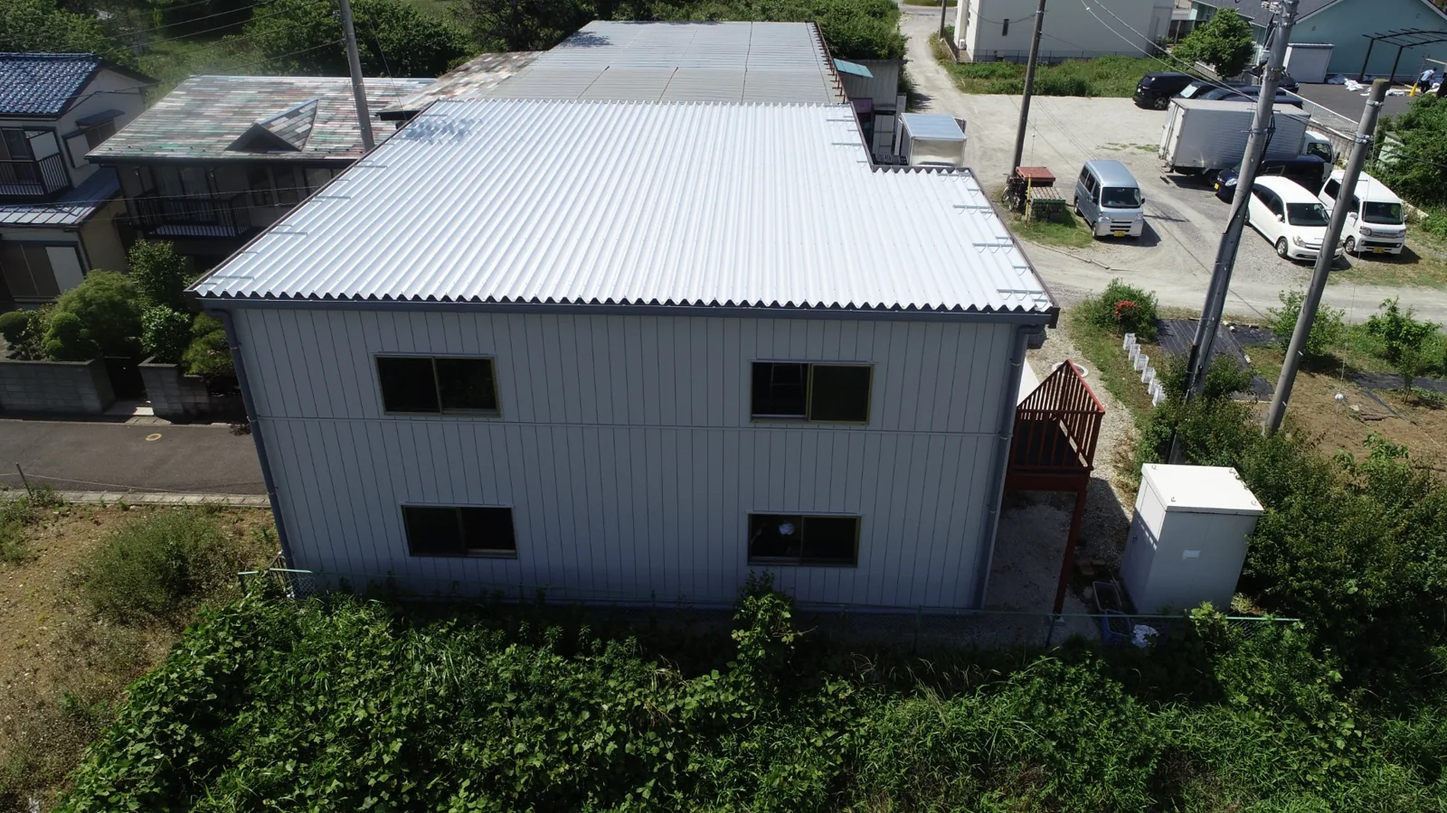
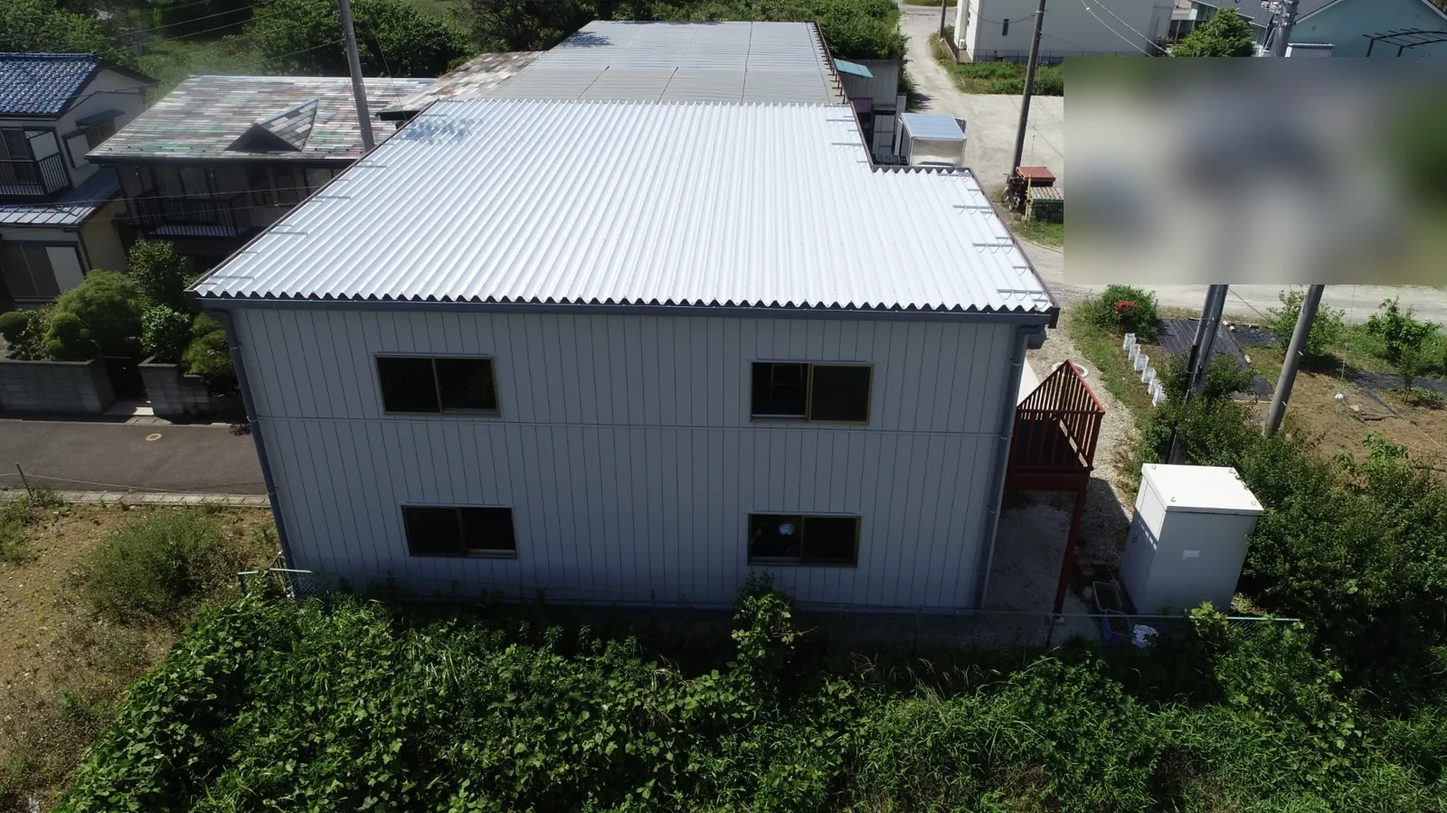
Finalize nine drone cases, redact photo identifiers and enable public SEO

Changed region(s): [[0.7188, 0.0622, 1.0, 0.3733]]

diff --git a/drone-survey/index.html b/drone-survey/index.html
@@ -1,8 +1,8 @@
 <!doctype html>
 <html lang="ja"><head><meta charset="utf-8"><meta name="viewport" content="width=device-width,initial-scale=1">
-<title>ドローンによる現場調査・施工計画｜株式会社太刀川組</title>
-<meta name="description" content="株式会社太刀川組のドローン活用。工場屋根・鉄骨・搬入経路などの現況確認を施工計画や工法提案に活かします。東京都江戸川区を拠点にご相談を承ります。">
-<meta name="robots" content="noindex,nofollow"><meta name="theme-color" content="#0b1626">
+<title>江戸川区のドローン現場調査・空撮記録｜株式会社太刀川組</title>
+<meta name="description" content="江戸川区の太刀川組によるドローン現場調査・空撮記録。屋根の現況確認、建屋増築の工事記録、台風被害調査など9事例を実写真で紹介。工場改修や高所調査のご相談を承ります。">
+<meta name="robots" content="index,follow"><link rel="canonical" href="https://tachikawagumi.co.jp/drone-survey/"><meta name="theme-color" content="#0b1626">
 <link rel="icon" href="../assets/optimized/logo-48.png" type="image/png">
 <link rel="stylesheet" href="../assets/contact-ui.css"><script defer src="../assets/contact-ui.js"></script>
 <script async src="https://www.googletagmanager.com/gtag/js?id=G-0YE8VVH5FC"></script><script>window.dataLayer=window.dataLayer||[];function gtag(){dataLayer.push(arguments)}gtag('js',new Date());gtag('config','G-0YE8VVH5FC')</script>
@@ -17,14 +17,15 @@
 .roof-comparison{display:grid;grid-template-columns:repeat(2,minmax(0,1fr));gap:22px}.roof-photo{min-width:0;margin:0;background:#fff;border:1px solid #dfe5eb}.roof-photo a{display:block}.roof-photo img{display:block;width:100%;height:auto;aspect-ratio:16/9;object-fit:contain;background:#12263d}.roof-photo figcaption{padding:17px 20px;font-size:14px;color:#526273;line-height:1.8}.roof-phase{display:block;color:#795b24;font-size:16px;font-weight:800;margin-bottom:5px}.roof-group-title{font-size:clamp(20px,2.4vw,27px);line-height:1.5;margin:36px 0 18px}.roof-case-facts{display:grid;grid-template-columns:repeat(2,minmax(0,1fr));gap:18px;margin:28px 0}.roof-case-facts p{margin:0;padding:17px 20px;background:#fff;border-top:2px solid #c79a3b;font-size:14px}.roof-case-facts strong{display:block;color:#795b24;font-size:12px;margin-bottom:7px}.roof-craft{border-left:3px solid #c79a3b;background:#fff;padding:22px 25px;margin:32px 0 22px}.roof-craft h3{margin:0 0 10px;font-size:21px;line-height:1.5}.roof-craft p{margin:0;color:#526273}.roof-scope{font-size:13px;color:#5c6a7a;max-width:850px}.roof-photo a:focus-visible{outline-offset:3px}@media(max-width:700px){.roof-comparison,.roof-case-facts{grid-template-columns:1fr}.roof-craft{padding:20px}.roof-photo figcaption{padding:15px 18px}}
 
 .extension-photo-grid{display:grid;grid-template-columns:repeat(3,minmax(0,1fr));gap:18px;margin-top:24px}.extension-photo-grid .roof-photo img{aspect-ratio:4/3;object-fit:cover}@media(max-width:760px){.extension-photo-grid{grid-template-columns:1fr 1fr}}@media(max-width:520px){.extension-photo-grid{grid-template-columns:1fr}}
+.case-nav{padding:32px 0}.case-nav .links{margin-top:14px;gap:12px 24px}section[id]{scroll-margin-top:20px}@media(max-width:420px){.brand{font-size:13px;gap:7px}.header .wrap{gap:8px}.header nav{gap:8px}.wrap{width:calc(100% - 32px)}}
 </style></head>
 <body class="has-contact-actions"><header class="header"><div class="wrap"><a class="brand" href="../"><img src="../assets/optimized/logo-96.png" alt="" width="42" height="42">株式会社太刀川組</a><nav aria-label="サイト案内"><a href="../factory-renovation/">工場改修</a><a href="../works/">施工実績</a><a href="../#contact">お問い合わせ</a></nav></div></header>
 <main><section class="hero" aria-labelledby="page-title"><h1 id="page-title" class="hero-sr-title">空から見る現場は、もっと面白い。太刀川組のドローン活用。</h1><figure class="hero-artwork"><img src="photos/drone-hero-original.webp" width="1672" height="941" alt="青空と夕空を背景にPhantom 4、Air 3S、Mini 2を描いたAI生成イメージ" fetchpriority="high" decoding="async"></figure><div class="wrap"><p>現場を見て、考え、施工につなげる。太刀川組のドローン活用。</p><p class="hero-note">※トップ画像はAI生成イメージです。実際に3機を同時飛行させて撮影した写真ではありません。</p><a class="hero-image-link" href="photos/drone-hero-original.webp">画像内の文字を拡大して見る →</a></div></section>
 <section class="section"><div class="wrap"><div class="eyebrow">OUR APPROACH</div><h2>撮るだけで終わらない、現場の確認。</h2><p class="lead">図面や地上からの視界だけでは分かりにくい屋根・高所・構造物の位置関係。ドローンで現況を確かめ、アクセス方法や資材搬入、作業手順を検討するための材料にします。撮影だけを目的とするサービスではなく、建設工事の現場判断に活かす取り組みです。</p></div></section>
-<section class="section alt" id="aircraft"><div class="wrap"><div class="eyebrow">OUR AIRCRAFT</div><h2>個性の異なる、3機のドローン。</h2><div class="cards"><article class="card"><span class="num">01 / WIDE VIEW</span><h3>DJI Air 3S</h3><p>現在の主力機。工場の屋根や構造物など、現場全体を見渡す確認に活用。</p></article><article class="card"><span class="num">02 / SHARED VIEW</span><h3>DJI Phantom 4</h3><p>映像をその場で共有する体験を重視した機体。旧DJI Gogglesとの組み合わせを含め、復活計画を進めています。</p></article><article class="card"><span class="num">03 / COMPACT VIEW</span><h3>DJI Mini 2</h3><p>小型ならではの取り回しを活かし、狭い場所の確認を想定。復活計画中の機体です。</p></article></div><p class="note">Phantom 4・Mini 2は飛行許可を取得済みですが、機体の整備完了・飛行可能状態を示すものではありません。飛行可否は現場条件・許可条件・安全確保を確認して判断します。</p></div></section>
+<section class="section alt" id="aircraft"><div class="wrap"><div class="eyebrow">OUR AIRCRAFT</div><h2>個性の異なる、3機のドローン。</h2><div class="cards"><article class="card"><span class="num">01 / WIDE VIEW</span><h3>DJI Air 3S</h3><p>現在の主力機。工場の屋根や構造物など、現場全体を見渡す確認に活用。</p></article><article class="card"><span class="num">02 / SHARED VIEW</span><h3>DJI Phantom 4</h3><p>映像をその場で共有する体験を重視した機体。旧DJI Gogglesとの組み合わせを含め、復活計画を進めています。</p></article><article class="card"><span class="num">03 / COMPACT VIEW</span><h3>DJI Mini 2</h3><p>小型ならではの取り回しを活かし、狭い場所の確認を想定。復活計画中の機体です。</p></article></div><p class="note">使用する機体と飛行可否は、機体の整備状態・現場条件・必要な許可や安全確保を確認して、案件ごとに判断します。</p></div></section>
 <section class="section" id="use"><div class="wrap"><div class="eyebrow">FIELD APPLICATION</div><h2>施工を考えるために、空から確かめる。</h2><div class="cards"><article class="card"><span class="num">01</span><h3>屋根・外壁の現況</h3><p>高所の状態や周辺設備との位置関係を把握し、追加調査や施工計画の検討に役立てます。</p></article><article class="card"><span class="num">02</span><h3>アクセス・搬入経路</h3><p>作業場所までの経路、資材の移動、仮設設備の配置を検討する手掛かりにします。</p></article><article class="card"><span class="num">03</span><h3>工法の比較・提案</h3><p>足場や高所作業車など、現場に適した手段を費用・作業負担・安全条件から考えます。</p></article></div></div></section>
 <section class="section dark"><div class="wrap"><div class="eyebrow">HOW WE WORK</div><h2>現場を見て、施工方法を考える。</h2><div class="steps"><div class="step"><b>01 / SURVEY</b><h3>現況を確認</h3><p>資料と現場を照合し、必要に応じて上空からも確認。</p></div><div class="step"><b>02 / PLAN</b><h3>工法を比較</h3><p>足場・高所作業車・搬入方法などを検討。</p></div><div class="step"><b>03 / PROPOSE</b><h3>根拠を示す</h3><p>作業方法や費用に関わる条件を説明。</p></div><div class="step"><b>04 / BUILD</b><h3>施工へつなぐ</h3><p>担当範囲と必要な体制を確認して進めます。</p></div></div></div></section>
-<section class="section alt" id="gallery" aria-labelledby="roof-case-title"><div class="wrap"><div class="eyebrow">DRONE × ROOF RENOVATION</div><h2 id="roof-case-title">江戸川区の工場屋根を、<br>施工前から施工後まで記録。</h2><p class="lead">東京都江戸川区内の工場で行った、屋根トタン板取り換え工事です。太刀川組の社員が屋根下に足場を組み、既存屋根材をガルバリウム鋼板の波板へ順次張り替えました。その過程を実際のドローン空撮写真4枚で紹介します。</p>
+<div class="wrap"><nav class="case-nav" aria-label="ドローン活用9事例"><strong>建設現場での活用9事例</strong><div class="links"><a href="#gallery">工場屋根交換 →</a><a href="#antenna-inspection">雨樋見積・アンテナ →</a><a href="#extension-progress">建屋増築記録 →</a><a href="#grading-comparison">造成現場比較 →</a><a href="#indoor-mezzanine">工場内中2階 →</a><a href="#roof-condition-inspection">屋根現況調査 →</a><a href="#school-route-wall">通学路沿い建物 →</a><a href="#storm-ridge">台風被害調査 →</a><a href="#tile-roof-record">瓦屋根補修記録 →</a></div></nav></div><section class="section alt" id="gallery" aria-labelledby="roof-case-title"><div class="wrap"><div class="eyebrow">DRONE × ROOF RENOVATION</div><h2 id="roof-case-title">江戸川区の工場屋根を、<br>施工前から施工後まで記録。</h2><p class="lead">東京都江戸川区内の工場で行った、屋根トタン板取り換え工事です。太刀川組の社員が屋根下に足場を組み、既存屋根材をガルバリウム鋼板の波板へ順次張り替えました。その過程を実際のドローン空撮写真4枚で紹介します。</p>
 <div class="roof-case-facts"><p><strong>施工場所</strong>東京都江戸川区内の工場</p><p><strong>当社の施工</strong>屋根下の足場・屋根材の順次交換</p></div>
 <h3 class="roof-group-title">ほぼ同じ構図で見る、施工前・施工後</h3><div class="roof-comparison"><figure class="roof-photo"><a href="photos/roof-0017.webp" aria-label="工場屋根の施工前の空撮写真を大きく見る"><img src="photos/roof-0017.webp" width="1600" height="900" alt="東京都江戸川区内の工場で行った屋根トタン板取り換え工事の施工前のドローン空撮写真" loading="lazy" decoding="async"></a><figcaption><span class="roof-phase">施工前</span>交換前の屋根を上空から撮影した記録です。</figcaption></figure><figure class="roof-photo"><a href="photos/roof-0041.webp" aria-label="工場屋根の施工後の空撮写真を大きく見る"><img src="photos/roof-0041.webp" width="1600" height="900" alt="東京都江戸川区内の工場で行った屋根トタン板取り換え工事の施工後のドローン空撮写真" loading="lazy" decoding="async"></a><figcaption><span class="roof-phase">施工後</span>屋根材を張り替えた後の状態。施工前とほぼ同じ構図で比較できます。</figcaption></figure></div>
 <h3 class="roof-group-title">屋根下の足場から、少しずつ張り替える</h3><div class="roof-comparison"><figure class="roof-photo"><a href="photos/roof-0037.webp" aria-label="工場屋根の施工中①の空撮写真を大きく見る"><img src="photos/roof-0037.webp" width="1600" height="900" alt="東京都江戸川区内の工場で行った屋根トタン板取り換え工事の施工中①のドローン空撮写真" loading="lazy" decoding="async"></a><figcaption><span class="roof-phase">施工中①</span>屋根下に足場を組み、屋根材を順次交換している様子です。</figcaption></figure><figure class="roof-photo"><a href="photos/roof-0038.webp" aria-label="工場屋根の施工中②の空撮写真を大きく見る"><img src="photos/roof-0038.webp" width="1600" height="900" alt="東京都江戸川区内の工場で行った屋根トタン板取り換え工事の施工中②のドローン空撮写真" loading="lazy" decoding="async"></a><figcaption><span class="roof-phase">施工中②</span>当社社員による張り替え作業を、上空から記録しました。</figcaption></figure></div>
@@ -32,14 +33,12 @@
 <p class="roof-scope">掲載写真は、当社が施工した屋根トタン板取り換え工事の記録です。写真に写る工場全体や、隣接する屋根すべてを交換したことを示すものではありません。</p>
 <div class="links"><a href="../factory-renovation/">工場改修・補修のご案内 →</a><a href="../?service=factory#contact">工場の屋根工事について相談する →</a></div></div></section>
 <section class="section" id="antenna-inspection" aria-labelledby="antenna-case-title"><div class="wrap"><div class="eyebrow">DRONE × SITE SURVEY</div><h2 id="antenna-case-title">千葉県某所｜住宅雨樋の現地調査で<br>アンテナの異常を発見</h2><p class="lead">千葉県内の住宅で、雨樋工事の見積依頼を受け、ドローンを使って屋根・雨樋周辺の状況を確認しました。その際、当初のご依頼とは別に、屋根上のアンテナの異常を発見。確認した状況を施主様に報告しました。アンテナの修理・撤去など、その後の対応は施主様の判断に委ねています。</p><div class="roof-case-facts"><p><strong>調査場所</strong>千葉県某所の住宅</p><p><strong>当社の対応</strong>雨樋見積の現地調査・異常の発見と報告</p></div><figure class="roof-photo antenna-photo"><a href="photos/chiba-antenna-inspection.webp" aria-label="屋根上のアンテナの状況を記録した実際の空撮写真を大きく見る"><img src="photos/chiba-antenna-inspection.webp" width="1888" height="1330" alt="千葉県内の住宅雨樋の見積調査で確認した、屋根上のアンテナの異常を記録したドローン空撮写真" loading="lazy" decoding="async"></a><figcaption><span class="roof-phase">現地調査・報告</span>雨樋の見積調査時に撮影した実際の空撮写真です。屋根・アンテナ周辺を切り出しています。</figcaption></figure><p class="note">本事例は現地調査で状況を確認し、施主様に報告した記録です。当社によるアンテナの修理・撤去や、雨樋工事の受注・施工完了を示すものではありません。</p><div class="links"><a href="../#contact">現場調査・工事について相談する →</a></div></div></section>
-<!-- Insert before the final CONTACT section in drone-survey/index.html. Existing roof and antenna sections must remain intact. -->
-<section class="section alt" id="extension-progress" aria-labelledby="extension-title"><div class="wrap"><div class="eyebrow">DRONE × CONSTRUCTION PROGRESS</div><h2 id="extension-title">千葉県某所｜建屋増築工事の空撮記録</h2><p class="lead">既存建物に接続する建屋の増築工事を、施工前から完成まで継続してドローンで撮影しました。花壇撤去、掘削、基礎施工、鉄骨・屋根・外壁施工へと進む現場の変化を、上空から確認できます。</p><div class="roof-craft"><h3>既存建物との接合部に合わせた施工方法</h3><p>既存建物との接合部が屋根裏に位置し、裏側からボルトを締め付けられなかったため、ITハンガーを用いてカットティーを固定する方法を採用しました。現場条件に合わせて施工方法を工夫した事例です。</p></div><h3 class="roof-group-title">空から追う、施工前から完成まで</h3><div class="extension-photo-grid"><figure class="roof-photo"><a href="photos/chiba-extension-before.webp" aria-label="施工前の空撮写真を拡大"><img width="1600" height="900" src="photos/chiba-extension-before.webp" alt="千葉県某所の建屋増築工事・施工前を記録したドローン写真" loading="lazy" decoding="async"></a><figcaption><span class="roof-phase">施工前</span>ドローンによる施工進捗記録</figcaption></figure><figure class="roof-photo"><a href="photos/chiba-extension-removal.webp" aria-label="花壇撤去の空撮写真を拡大"><img width="1600" height="900" src="photos/chiba-extension-removal.webp" alt="千葉県某所の建屋増築工事・花壇撤去を記録したドローン写真" loading="lazy" decoding="async"></a><figcaption><span class="roof-phase">花壇撤去</span>ドローンによる施工進捗記録</figcaption></figure><figure class="roof-photo"><a href="photos/chiba-extension-excavation.webp" aria-label="掘削の空撮写真を拡大"><img width="1600" height="900" src="photos/chiba-extension-excavation.webp" alt="千葉県某所の建屋増築工事・掘削を記録したドローン写真" loading="lazy" decoding="async"></a><figcaption><span class="roof-phase">掘削</span>ドローンによる施工進捗記録</figcaption></figure><figure class="roof-photo"><a href="photos/chiba-extension-foundation.webp" aria-label="基礎コンクリート施工の空撮写真を拡大"><img width="1600" height="900" src="photos/chiba-extension-foundation.webp" alt="千葉県某所の建屋増築工事・基礎コンクリート施工を記録したドローン写真" loading="lazy" decoding="async"></a><figcaption><span class="roof-phase">基礎コンクリート施工</span>ドローンによる施工進捗記録</figcaption></figure><figure class="roof-photo"><a href="photos/chiba-extension-steel.webp" aria-label="鉄骨・屋根施工中の空撮写真を拡大"><img width="1600" height="900" src="photos/chiba-extension-steel.webp" alt="千葉県某所の建屋増築工事・鉄骨・屋根施工中を記録したドローン写真" loading="lazy" decoding="async"></a><figcaption><span class="roof-phase">鉄骨・屋根施工中</span>ドローンによる施工進捗記録</figcaption></figure><figure class="roof-photo"><a href="photos/chiba-extension-wall.webp" aria-label="外壁施工中の空撮写真を拡大"><img width="1600" height="900" src="photos/chiba-extension-wall.webp" alt="千葉県某所の建屋増築工事・外壁施工中を記録したドローン写真" loading="lazy" decoding="async"></a><figcaption><span class="roof-phase">外壁施工中</span>ドローンによる施工進捗記録</figcaption></figure><figure class="roof-photo"><a href="photos/chiba-extension-finished-main.webp" aria-label="完成全景の空撮写真を拡大"><img width="1600" height="900" src="photos/chiba-extension-finished-main.webp" alt="千葉県某所の建屋増築工事・完成全景を記録したドローン写真" loading="lazy" decoding="async"></a><figcaption><span class="roof-phase">完成全景</span>ドローンによる施工進捗記録</figcaption></figure><figure class="roof-photo"><a href="photos/chiba-extension-finished-roof.webp" aria-label="完成・屋根上空の空撮写真を拡大"><img width="1600" height="900" src="photos/chiba-extension-finished-roof.webp" alt="千葉県某所の建屋増築工事・完成・屋根上空を記録したドローン写真" loading="lazy" decoding="async"></a><figcaption><span class="roof-phase">完成・屋根上空</span>ドローンによる施工進捗記録</figcaption></figure><figure class="roof-photo"><a href="photos/chiba-extension-finished-rear.webp" aria-label="完成・裏側の空撮写真を拡大"><img width="1600" height="900" src="photos/chiba-extension-finished-rear.webp" alt="千葉県某所の建屋増築工事・完成・裏側を記録したドローン写真" loading="lazy" decoding="async"></a><figcaption><span class="roof-phase">完成・裏側</span>ドローンによる施工進捗記録</figcaption></figure></div><p class="roof-scope">掲載写真は施工進捗を記録したものです。撮影範囲に含まれる周辺建物等の施工を示すものではありません。</p></div></section>
-<section class="section" id="grading-comparison" aria-labelledby="grading-title"><div class="wrap"><div class="eyebrow">DRONE × GROUND RECORD</div><h2 id="grading-title">上空から比較する、造成工事の地表の変化</h2><p class="lead">造成工事の進捗をドローンで記録しました。異なる時点の地表をほぼ真上から撮影することで、地表の状態や作業範囲の変化を比較できます。</p><div class="roof-comparison"><figure class="roof-photo"><a href="photos/grading-0074.webp" aria-label="重機が写る造成現場の空撮写真を大きく見る"><img src="photos/grading-0074.webp" width="1600" height="900" alt="重機と資材の配置が写る造成現場をほぼ真上から撮影したドローン写真" loading="lazy" decoding="async"></a><figcaption><span class="roof-phase">重機が写る作業状況</span>重機による作業と資材の配置が分かる俯瞰写真です。</figcaption></figure><figure class="roof-photo"><a href="photos/grading-0198.webp" aria-label="地表が整えられた状態の空撮写真を大きく見る"><img src="photos/grading-0198.webp" width="1600" height="900" alt="広い範囲の地表が整えられた状態をほぼ真上から撮影したドローン写真" loading="lazy" decoding="async"></a><figcaption><span class="roof-phase">地表が整えられた状態</span>広い範囲の地表の状態を、上空から記録しました。</figcaption></figure></div><p class="roof-scope">2時点の地表の状態を比較する記録です。使用材料の種類や厳密な工程区分、工事全体の完了を示すものではありません。写真に写る周辺の土地・施設すべてを当社が施工したことを示すものではありません。</p></div></section>
+
+<section class="section alt" id="extension-progress" aria-labelledby="extension-title"><div class="wrap"><div class="eyebrow">DRONE × CONSTRUCTION PROGRESS</div><h2 id="extension-title">千葉県某所｜建屋増築工事の空撮記録</h2><p class="lead">既存建物に接続する建屋の増築工事を、施工前から完成まで継続してドローンで撮影しました。花壇撤去、掘削、基礎施工、鉄骨・屋根・外壁施工へと進む現場の変化を、上空から確認できます。</p><div class="roof-case-facts"><p><strong>撮影場所</strong>千葉県内の建屋増築現場</p><p><strong>当社の担当として紹介する範囲</strong>ドローンによる工事の撮影・進捗記録</p></div><h3 class="roof-group-title">空から追う、施工前から完成まで</h3><div class="extension-photo-grid"><figure class="roof-photo"><a href="photos/chiba-extension-before.webp" aria-label="施工前の空撮写真を拡大"><img width="1600" height="900" src="photos/chiba-extension-before.webp" alt="千葉県某所の建屋増築工事・施工前を記録したドローン写真" loading="lazy" decoding="async"></a><figcaption><span class="roof-phase">施工前</span>ドローンによる施工進捗記録</figcaption></figure><figure class="roof-photo"><a href="photos/chiba-extension-removal.webp" aria-label="花壇撤去の空撮写真を拡大"><img width="1600" height="900" src="photos/chiba-extension-removal.webp" alt="千葉県某所の建屋増築工事・花壇撤去を記録したドローン写真" loading="lazy" decoding="async"></a><figcaption><span class="roof-phase">花壇撤去</span>ドローンによる施工進捗記録</figcaption></figure><figure class="roof-photo"><a href="photos/chiba-extension-excavation.webp" aria-label="掘削の空撮写真を拡大"><img width="1600" height="900" src="photos/chiba-extension-excavation.webp" alt="千葉県某所の建屋増築工事・掘削を記録したドローン写真" loading="lazy" decoding="async"></a><figcaption><span class="roof-phase">掘削</span>ドローンによる施工進捗記録</figcaption></figure><figure class="roof-photo"><a href="photos/chiba-extension-foundation.webp" aria-label="基礎コンクリート施工の空撮写真を拡大"><img width="1600" height="900" src="photos/chiba-extension-foundation.webp" alt="千葉県某所の建屋増築工事・基礎コンクリート施工を記録したドローン写真" loading="lazy" decoding="async"></a><figcaption><span class="roof-phase">基礎コンクリート施工</span>ドローンによる施工進捗記録</figcaption></figure><figure class="roof-photo"><a href="photos/chiba-extension-steel.webp" aria-label="鉄骨・屋根施工中の空撮写真を拡大"><img width="1600" height="900" src="photos/chiba-extension-steel.webp" alt="千葉県某所の建屋増築工事・鉄骨・屋根施工中を記録したドローン写真" loading="lazy" decoding="async"></a><figcaption><span class="roof-phase">鉄骨・屋根施工中</span>ドローンによる施工進捗記録</figcaption></figure><figure class="roof-photo"><a href="photos/chiba-extension-wall.webp" aria-label="外壁施工中の空撮写真を拡大"><img width="1600" height="900" src="photos/chiba-extension-wall.webp" alt="千葉県某所の建屋増築工事・外壁施工中を記録したドローン写真" loading="lazy" decoding="async"></a><figcaption><span class="roof-phase">外壁施工中</span>ドローンによる施工進捗記録</figcaption></figure><figure class="roof-photo"><a href="photos/chiba-extension-finished-main.webp" aria-label="完成全景の空撮写真を拡大"><img width="1600" height="900" src="photos/chiba-extension-finished-main.webp" alt="千葉県某所の建屋増築工事・完成全景を記録したドローン写真" loading="lazy" decoding="async"></a><figcaption><span class="roof-phase">完成全景</span>ドローンによる施工進捗記録</figcaption></figure><figure class="roof-photo"><a href="photos/chiba-extension-finished-roof.webp" aria-label="完成・屋根上空の空撮写真を拡大"><img width="1600" height="900" src="photos/chiba-extension-finished-roof.webp" alt="千葉県某所の建屋増築工事・完成・屋根上空を記録したドローン写真" loading="lazy" decoding="async"></a><figcaption><span class="roof-phase">完成・屋根上空</span>ドローンによる施工進捗記録</figcaption></figure><figure class="roof-photo"><a href="photos/chiba-extension-finished-rear.webp" aria-label="完成・裏側の空撮写真を拡大"><img width="1600" height="900" src="photos/chiba-extension-finished-rear.webp" alt="千葉県某所の建屋増築工事・完成・裏側を記録したドローン写真" loading="lazy" decoding="async"></a><figcaption><span class="roof-phase">完成・裏側</span>ドローンによる施工進捗記録</figcaption></figure></div><p class="roof-scope">当社によるドローン撮影・進捗記録の事例です。増築工事各工程の施工分担は記載していません。撮影範囲に含まれる周辺建物等の施工を示すものではありません。</p></div></section>
+<section class="section" id="grading-comparison" aria-labelledby="grading-title"><div class="wrap"><div class="eyebrow">DRONE × GROUND RECORD</div><h2 id="grading-title">上空から比較する、造成工事の地表の変化</h2><p class="lead">造成工事の進捗をドローンで記録しました。異なる時点の地表をほぼ真上から撮影することで、地表の状態や作業範囲の変化を比較できます。</p><div class="roof-comparison"><figure class="roof-photo"><a href="photos/grading-0074.webp" aria-label="重機が写る造成現場の空撮写真を大きく見る"><img src="photos/grading-0074.webp" width="1600" height="900" alt="重機と資材の配置が写る造成現場をほぼ真上から撮影したドローン写真" loading="lazy" decoding="async"></a><figcaption><span class="roof-phase">重機が写る作業状況</span>重機による作業と資材の配置が分かる俯瞰写真です。</figcaption></figure><figure class="roof-photo"><a href="photos/grading-0198.webp" aria-label="地表が整えられた状態の空撮写真を大きく見る"><img src="photos/grading-0198.webp" width="1600" height="900" alt="広い範囲の地表が整えられた状態をほぼ真上から撮影したドローン写真" loading="lazy" decoding="async"></a><figcaption><span class="roof-phase">地表が整えられた状態</span>広い範囲の地表の状態を、上空から記録しました。</figcaption></figure></div><p class="roof-scope">当社のドローン撮影による2時点の地表の比較記録です。造成工事そのものの当社施工範囲は記載していません。使用材料の種類や厳密な工程区分、工事全体の完了を示すものではありません。写真に写る周辺の土地・施設すべてを当社が施工したことを示すものではありません。</p></div></section>
+<section class="section alt" id="indoor-mezzanine" data-drone-case><div class="wrap"><div class="eyebrow">DRONE FIELD RECORD</div><h2>工場内中2階を、Mini 2で現況調査</h2><p class="lead">解体予定の工場内中2階を、DJI Mini 2で撮影・調査した事例です。階段や通路の位置関係を上方から記録し、現況の確認に役立てました。</p><div class="roof-comparison"><figure class="roof-photo"><a href="photos/indoor-mezzanine.webp" aria-label="工場内の階段・通路の現況の写真を拡大"><img src="photos/indoor-mezzanine.webp" width="1160" height="340" alt="工場内の階段・通路の現況" loading="lazy" decoding="async"></a><figcaption><span class="roof-phase">工場内の階段・通路の現況</span>荷物のラベル等が写る周囲を除き、階段・通路を中心に掲載しています。</figcaption></figure></div><p class="roof-scope">当社の担当はMini 2による現況調査です。解体完了を示すものではありません。屋内撮影の可否と安全確保は、施設・現場条件ごとに検討します。</p><div class="links"><a href="../?service=general#contact">ドローン調査・工事について相談する →</a></div></div></section>
 <section class="section alt" id="roof-condition-inspection" aria-labelledby="roof-condition-title"><div class="wrap"><div class="eyebrow">DRONE × ROOF CONDITION</div><h2 id="roof-condition-title">大きな異音をきっかけに、<br>屋根の状態をドローンで確認</h2><p class="lead">「屋根の方からすごい音がしたので、状態を確認してほしい」というご相談を受け、ドローンで屋根の現況を撮影しました。上空からは、屋根材のずれ・欠損や木製下地の露出などが確認できました。地上から見えにくい部分も複数の角度から記録し、現状の把握に役立てた事例です。</p><div class="roof-comparison"><figure class="roof-photo"><a href="photos/roof-condition-0096.webp" aria-label="全景・屋根材の欠損の調査写真を大きく見る"><img src="photos/roof-condition-0096.webp" width="2048" height="1152" alt="ドローンによる屋根現況調査で撮影した全景・屋根材の欠損" loading="lazy" decoding="async"></a><figcaption><span class="roof-phase">全景・屋根材の欠損</span>屋根材のずれや欠損、下地の露出を上空から記録しました。</figcaption></figure><figure class="roof-photo"><a href="photos/roof-condition-0097.webp" aria-label="側面から見た屋根の状態の調査写真を大きく見る"><img src="photos/roof-condition-0097.webp" width="2048" height="1152" alt="ドローンによる屋根現況調査で撮影した側面から見た屋根の状態" loading="lazy" decoding="async"></a><figcaption><span class="roof-phase">側面から見た屋根の状態</span>側面から撮影し、地上から見えにくい屋根の状況を記録しました。</figcaption></figure><figure class="roof-photo"><a href="photos/roof-condition-0100.webp" aria-label="木製下地の状態の調査写真を大きく見る"><img src="photos/roof-condition-0100.webp" width="2048" height="1152" alt="ドローンによる屋根現況調査で撮影した木製下地の状態" loading="lazy" decoding="async"></a><figcaption><span class="roof-phase">木製下地の状態</span>露出した木製下地の状態を、上空から撮影しました。</figcaption></figure><figure class="roof-photo"><a href="photos/roof-condition-0103.webp" aria-label="屋根端部と内部の様子の調査写真を大きく見る"><img src="photos/roof-condition-0103.webp" width="2048" height="1152" alt="ドローンによる屋根現況調査で撮影した屋根端部と内部の様子" loading="lazy" decoding="async"></a><figcaption><span class="roof-phase">屋根端部と内部の様子</span>屋根端部と、そこから見える内部の様子を記録しました。</figcaption></figure></div><p class="roof-scope">本事例は屋根の現況調査の記録です。異音や損傷の原因、建物の安全性を診断したものではなく、補修・解体・工事完了を示すものではありません。</p></div></section>
-<section class="section alt" id="mini2-indoor-inspection" aria-labelledby="mini2-indoor-inspection-title"><div class="wrap"><div class="eyebrow">DRONE × FIELD RECORD</div><h2 id="mini2-indoor-inspection-title">Mini 2で確認する、工場内の中2階</h2><p class="lead">解体を予定している工場内の中2階を、DJI Mini 2で調査しました。軽天材の間からも撮影し、工場内の状況を記録した事例です。</p><div class="roof-case-facts"><p><strong>使用機体</strong>DJI Mini 2</p><p><strong>当社の対応</strong>解体予定箇所の屋内調査・撮影記録</p></div><div class="roof-comparison"></div><p class="roof-scope">本事例は解体前の調査記録です。解体工事の完了を示すものではありません。屋内や狭い場所での飛行可否は、現場の状況や安全確保の条件を個別に確認して判断します。</p><div class="links"><a href="../#contact">現場調査・工事について相談する →</a></div></div></section>
-<section class="section alt" id="school-route-survey" aria-labelledby="school-route-survey-title"><div class="wrap"><div class="eyebrow">DRONE × FIELD RECORD</div><h2 id="school-route-survey-title">通学路沿いの建物を、屋根工事業者と確認</h2><p class="lead">屋根工事業者からの依頼で、通学路沿いの建物の立ち上がり壁の変形をドローンで撮影しました。撮影した映像を警察への道路使用許可の相談時にも提示し、現場の状況を共有しました。</p><div class="roof-case-facts"><p><strong>当社の担当</strong>ドローン調査・足場・外構</p><p><strong>屋根補修の担当</strong>依頼元の屋根工事業者</p></div><div class="roof-comparison"><figure class="roof-photo"><a href="photos/school-route-roof-record.webp" aria-label="通学路沿いの建物の屋根と立ち上がり壁を上空から記録した写真を大きく見る"><img src="photos/school-route-roof-record.webp" width="1600" height="900" alt="通学路沿いの建物の屋根と立ち上がり壁を上空から記録した写真" loading="lazy" decoding="async"></a><figcaption>調査時の屋根周辺。人物や近隣住宅の全景が写らない接写を掲載しています。</figcaption></figure></div><p class="roof-scope">屋根補修は屋根工事業者が担当しました。この写真だけで変形の原因や建物の安全性を診断するものではありません。</p><div class="links"><a href="../#contact">現場調査・工事について相談する →</a></div></div></section>
-<section class="section alt" id="typhoon-roof-survey" aria-labelledby="typhoon-roof-survey-title"><div class="wrap"><div class="eyebrow">DRONE × FIELD RECORD</div><h2 id="typhoon-roof-survey-title">台風後の工場屋根を、上空から調査</h2><p class="lead">台風で工場屋根の棟部材が飛散し、隣家の屋根まで及んだ現場をドローンで調査しました。上空から工場屋根の状態を記録し、地上から見えにくい部分の確認に役立てました。</p><div class="roof-case-facts"><p><strong>調査対象</strong>台風後の工場屋根</p><p><strong>当社の担当</strong>ドローンによる調査・撮影記録</p></div><div class="roof-comparison"><figure class="roof-photo"><a href="photos/typhoon-ridge-record.webp" aria-label="台風後の工場屋根の棟付近と飛散した部材を記録した空撮写真を大きく見る"><img src="photos/typhoon-ridge-record.webp" width="1600" height="900" alt="台風後の工場屋根の棟付近と飛散した部材を記録した空撮写真" loading="lazy" decoding="async"></a><figcaption>棟付近に残る部材を上空から記録。近隣住宅が写る広角写真は掲載していません。</figcaption></figure></div><p class="roof-scope">当社の担当は調査のみです。補修工事の施工・完了や、保険申請・保険金の支払結果を示す事例ではありません。</p><div class="links"><a href="../#contact">現場調査・工事について相談する →</a></div></div></section>
-<section class="section alt" id="tile-roof-plaster-record" aria-labelledby="tile-roof-plaster-record-title"><div class="wrap"><div class="eyebrow">DRONE × FIELD RECORD</div><h2 id="tile-roof-plaster-record-title">住宅瓦屋根の漆喰補修・ドローン空撮記録</h2><p class="lead">住宅の瓦屋根の漆喰補修にあたり、太刀川組が専門業者への依頼とドローンによる空撮・記録を担当しました。実際の漆喰補修は、東京土建の仲間である屋根業者が担当しました。</p><div class="roof-case-facts"><p><strong>太刀川組の担当</strong>専門業者への依頼・ドローン空撮・記録</p><p><strong>漆喰補修の担当</strong>東京土建の仲間の屋根業者</p></div><div class="roof-comparison"><figure class="roof-photo"><a href="photos/tile-roof-plaster-record.webp" aria-label="住宅の瓦屋根の取り合い部分を記録したドローン空撮写真を大きく見る"><img src="photos/tile-roof-plaster-record.webp" width="1600" height="900" alt="住宅の瓦屋根の取り合い部分を記録したドローン空撮写真" loading="lazy" decoding="async"></a><figcaption>瓦屋根の空撮記録。人物や住宅全景を含まない接写を採用しています。</figcaption></figure></div><p class="roof-scope">掲載写真の施工前・施工後の時点は確定していないため、前後比較としては掲載していません。漆喰補修を太刀川組が直接施工した事例ではありません。所在地・施主名・担当業者名は掲載していません。</p><div class="links"><a href="../#contact">現場調査・工事について相談する →</a></div></div></section>
+<section class="section alt" id="school-route-wall" data-drone-case><div class="wrap"><div class="eyebrow">DRONE FIELD RECORD</div><h2>通学路沿い建物の、立ち上がり壁の変形を確認</h2><p class="lead">屋根工事業者からの依頼を受け、通学路に面する建物の屋根周辺をドローンで調査しました。映像で立ち上がり壁の中央付近の変形を確認。撮影映像を警察へ提示し、道路使用許可が速やかに下りた経緯があります。</p><div class="roof-comparison"><figure class="roof-photo"><a href="photos/school-route-wall.webp" aria-label="立ち上がり壁の現況の写真を拡大"><img src="photos/school-route-wall.webp" width="1420" height="510" alt="立ち上がり壁の現況" loading="lazy" decoding="async"></a><figcaption><span class="roof-phase">立ち上がり壁の現況</span>周辺の道路や表示を抑え、屋根と立ち上がり壁を中心に掲載。</figcaption></figure></div><p class="roof-scope">太刀川組はドローン調査・足場・外構を担当。屋根工事は専門業者が担当しました。許可取得までの日数や、建物の安全性の診断は記載していません。</p><div class="links"><a href="../?service=general#contact">ドローン調査・工事について相談する →</a></div></div></section><section class="section alt" id="storm-ridge" data-drone-case><div class="wrap"><div class="eyebrow">DRONE FIELD RECORD</div><h2>台風で飛散した工場屋根の棟部材を調査</h2><p class="lead">台風により工場屋根の棟部材が飛散し、隣接住宅の屋根まで達した現場で、ドローンによる被害状況の調査・撮影を行いました。地上からは見えにくい屋根の状況を上空から記録しました。</p><div class="roof-comparison"><figure class="roof-photo"><a href="photos/storm-ridge.webp" aria-label="工場屋根の棟周辺の被害状況の写真を拡大"><img src="photos/storm-ridge.webp" width="1600" height="900" alt="工場屋根の棟周辺の被害状況" loading="lazy" decoding="async"></a><figcaption><span class="roof-phase">工場屋根の棟周辺の被害状況</span>棟部材が外れた箇所と屋根面の状態を記録。</figcaption></figure></div><p class="roof-scope">太刀川組の担当はドローン調査・撮影のみです。屋根補修は当社の施工実績として扱っていません。保険申請への使用や保険金の支払い状況は記載していません。</p><div class="links"><a href="../?service=general#contact">ドローン調査・工事について相談する →</a></div></div></section><section class="section alt" id="tile-roof-record" data-drone-case><div class="wrap"><div class="eyebrow">DRONE FIELD RECORD</div><h2>住宅瓦屋根の漆喰補修を、空から記録</h2><p class="lead">住宅瓦屋根の漆喰補修にあたり、太刀川組が専門業者への依頼とドローン空撮・記録を担当しました。実際の漆喰補修は、東京土建の仲間の屋根業者が施工しています。屋根周辺の記録写真をご紹介します。</p><div class="roof-comparison"><figure class="roof-photo"><a href="photos/tile-roof-record-0142.webp" aria-label="瓦屋根の棟周辺の写真を拡大"><img src="photos/tile-roof-record-0142.webp" width="1600" height="900" alt="瓦屋根の棟周辺" loading="lazy" decoding="async"></a><figcaption><span class="roof-phase">瓦屋根の棟周辺</span>屋根周辺を空から記録した実写真です。</figcaption></figure><figure class="roof-photo"><a href="photos/tile-roof-record-0149.webp" aria-label="瓦と谷部の現況の写真を拡大"><img src="photos/tile-roof-record-0149.webp" width="1600" height="900" alt="瓦と谷部の現況" loading="lazy" decoding="async"></a><figcaption><span class="roof-phase">瓦と谷部の現況</span>人物や近隣住宅が写らない屋根の詳細写真を選定。</figcaption></figure></div><p class="roof-scope">太刀川組の担当は専門業者への依頼・ドローン空撮・記録です。漆喰補修そのものを当社施工とは表現していません。写真ごとの施工前後は断定していません。</p><div class="links"><a href="../?service=general#contact">ドローン調査・工事について相談する →</a></div></div></section>
 <section class="section"><div class="wrap"><div class="eyebrow">CONTACT</div><h2>現場調査から、工事のご相談まで。</h2><p class="lead">工場や既存構造物の補修・改修について、現場条件を確認しながら施工方法をご提案します。ドローンの使用可否や調査範囲は案件ごとに検討します。</p><a class="btn" href="../#contact">工事について相談する</a><div class="links"><a href="../factory-renovation/">工場改修・補修工事を見る →</a><a href="../works/">施工実績を見る →</a></div></div></section></main>
 <nav class="mobile-contact-bar" aria-label="スマートフォンお問い合わせ"><a href="tel:03-3670-0534">電話で相談</a><a href="../#contact">お問い合わせ</a></nav>
 <footer class="footer"><div class="wrap"><span>株式会社太刀川組｜東京都江戸川区新堀1-33-3</span><span><a href="tel:03-3670-0534">03-3670-0534</a>　<a href="../privacy/">プライバシーポリシー</a></span></div></footer></body></html>

diff --git a/index.html b/index.html
@@ -210,7 +210,7 @@ body.has-contact-actions{background:#fff}
 <p id="formStatus" role="status" aria-live="polite"></p></form></div></div>
 <div class="final-cta reveal"><div><h3>お急ぎの場合は、お電話ください。</h3><p>土工・とび・コンクリート工事、建設補修についてお問い合わせください。</p></div><a class="btn btn-primary" href="tel:03-3670-0534">03-3670-0534 に電話する</a></div>
 </div></section>
-</main><nav class="mobile-contact-bar" aria-label="スマートフォンお問い合わせ"><a href="tel:03-3670-0534">電話で相談</a><a href="#contact">お問い合わせ</a></nav><footer class="footer"><div class="container footer-in"><div><strong>株式会社太刀川組</strong>　土工・とび・コンクリート工事</div><div><div class="footer-links"><a href="works/">施工実績一覧</a><a href="factory-renovation/">工場改修</a><a href="sound-barrier/">遮音壁工事</a><a href="#works">施工実績</a><a href="#trust">信頼と施工体制</a><a href="#contact">お問い合わせ</a><a href="privacy/">プライバシーポリシー</a></div><small>〒132-0001 東京都江戸川区新堀1-33-3　<a href="tel:03-3670-0534">03-3670-0534</a></small><div>© TACHIKAWA GUMI</div></div></div></footer>
+</main><nav class="mobile-contact-bar" aria-label="スマートフォンお問い合わせ"><a href="tel:03-3670-0534">電話で相談</a><a href="#contact">お問い合わせ</a></nav><footer class="footer"><div class="container footer-in"><div><strong>株式会社太刀川組</strong>　土工・とび・コンクリート工事</div><div><div class="footer-links"><a href="works/">施工実績一覧</a><a href="factory-renovation/">工場改修</a><a href="drone-survey/">ドローン現場調査</a><a href="sound-barrier/">遮音壁工事</a><a href="#works">施工実績</a><a href="#trust">信頼と施工体制</a><a href="#contact">お問い合わせ</a><a href="privacy/">プライバシーポリシー</a></div><small>〒132-0001 東京都江戸川区新堀1-33-3　<a href="tel:03-3670-0534">03-3670-0534</a></small><div>© TACHIKAWA GUMI</div></div></div></footer>
 <div class="lightbox" id="lightbox" role="dialog" aria-modal="true" aria-labelledby="lightboxTitle"><button type="button" aria-label="閉じる">×</button><img loading="lazy" decoding="async" fetchpriority="low" id="lightboxImg" src="" alt=""><p id="lightboxTitle"></p></div>
 <script>
 if('IntersectionObserver' in window && !window.matchMedia('(prefers-reduced-motion: reduce)').matches){const io=new IntersectionObserver(es=>es.forEach(e=>{if(e.isIntersecting){e.target.classList.add('show');io.unobserve(e.target)}}),{threshold:.12});document.querySelectorAll('.reveal').forEach(e=>io.observe(e));}
